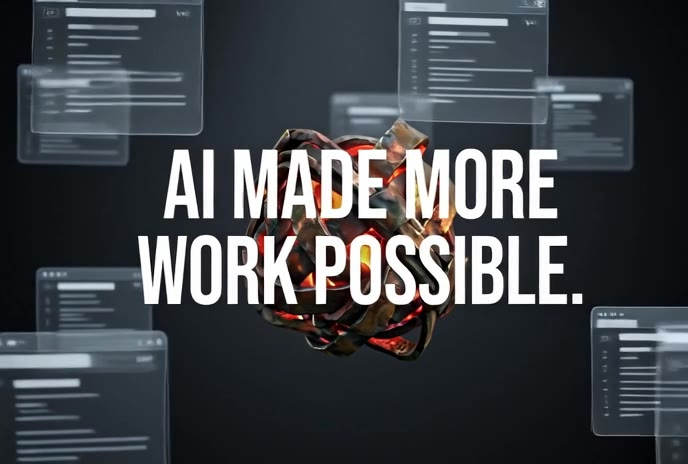
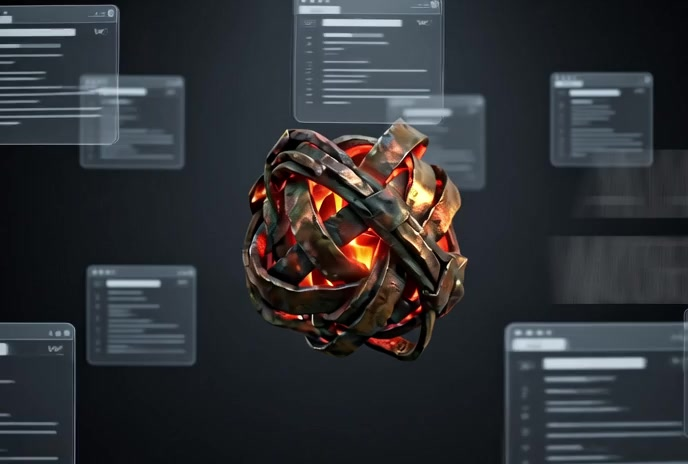
Start the background film on a phone.
A scroll was loading the next film and then dropping the play call, so the poster stayed up.

diff --git a/public/review/proof-momentum/bizbuilders.html b/public/review/proof-momentum/bizbuilders.html
@@ -2,7 +2,7 @@
 <html lang="en"><head><meta charset="utf-8"><meta name="viewport" content="width=device-width,initial-scale=1"><meta name="theme-color" content="#111111"><title>BizBuilders AI · Begin with PROOF</title><link rel="preconnect" href="https://fonts.googleapis.com"><link rel="preconnect" href="https://fonts.gstatic.com" crossorigin><link rel="preconnect" href="https://9s35ujeqbjjbd1bt.public.blob.vercel-storage.com"><link rel="preload" as="image" href="assets/b2b-task-6-world.jpg" fetchpriority="high"><link rel="stylesheet" href="https://fonts.googleapis.com/css2?family=Instrument+Sans:wght@600;700;800&display=swap"><link rel="stylesheet" href="scrollcraft.css"><link rel="stylesheet" href="experience.css?v=films"><link rel="stylesheet" href="arrows.css?v=navd"><link rel="stylesheet" href="benefit-track.css"><meta name="description" content="I trace the work, preserve the context, and give the next action somewhere to go."><link rel="canonical" href="https://transformby10x.ai/bbai"><meta property="og:type" content="website"><meta property="og:title" content="BizBuilders AI | Give the fix somewhere to live"><meta property="og:description" content="I trace the work, preserve the context, and give the next action somewhere to go."><meta property="og:url" content="https://transformby10x.ai/bbai"><meta property="og:image" content="https://transformby10x.ai/assets/b2b-task-6-world.jpg"><meta name="twitter:card" content="summary_large_image"></head><body data-page="business">
 <div class="benefit-track" aria-hidden="true"><p class="benefit-track__line"></p></div>
 <button id="sound-toggle" type="button" aria-pressed="false" aria-label="Sound off"><i></i></button>
-<div id="world" data-scene="b2b-task-6-world.mp4" style="--light:.92" aria-hidden="true"><video id="world-a" class="visible" muted loop playsinline preload="auto" poster="assets/b2b-task-6-world.jpg" src="assets/b2b-task-6-world.mp4" style="opacity:var(--light,.84)"></video><video id="world-b" muted loop playsinline preload="none"></video><div class="world-shade"></div></div>
+<div id="world" data-scene="b2b-task-6-world.mp4" style="--light:.92" aria-hidden="true"><video id="world-a" class="visible" muted autoplay loop playsinline webkit-playsinline preload="auto" poster="assets/b2b-task-6-world.jpg" src="assets/b2b-task-6-world.mp4" style="opacity:var(--light,.84)"></video><video id="world-b" muted autoplay loop playsinline webkit-playsinline preload="none"></video><div class="world-shade"></div></div>
 
 <main id="experience" data-sc-root data-sc-lerp="1"><h1 class="sr">BizBuilders AI. Begin with PROOF.</h1><section id="recognition" data-track="fog" data-sc-act="flow" data-world="b2b-task-6-world.mp4" data-light="1"><div class="bill manifesto-film"><div class="manifesto-cry"><p class="peak">The tools work. That's not the problem.</p><p>Generating at that speed created a job.</p><p>Nobody scheduled it. Nobody staffed it.</p><p>Your people absorbed it.</p><p>They chase, check, and remember.</p><p>The gap got filled by people with good intentions.</p><p class="peak fog-stamp">That's not architecture.</p><p class="peak">That's Digital Fog.</p><p>The drag it creates is Digital Friction.</p><p>You can't fix what you can't see.</p><p>It doesn't show up on a dashboard.</p><p class="closer">Fifteen answers.</p></div></div></section>
 <section id="gate" data-track="gate" data-sc-act="flow" data-world="b2b-task-6-world.mp4" data-light="1"><div class="bill gate"><div class="gate-surface"><div class="gate-ask"><h2 class="gate-release" data-track-headline="gate"><span>It was never</span><span>yours to carry.</span></h2></div><div class="gate-board"><button type="button" class="gate-up" data-choice="up">See where it shows up</button></div></div></div></section><section id="proof" data-track="proof" data-sc-act="flow" data-world="proof-main.mp4" data-light=".92"><div class="bill proof"><div class="proof-name"><h2>PROOF</h2></div><div class="proof-bottom"><button class="action lane-biz" data-start="business" data-sc-magnet="0.1" data-cta="map"><span class="arr" aria-hidden="true"></span></button><button class="text-action method-secondary" data-open="method-dialog" data-cta="method" aria-haspopup="dialog">See the limits <span class="arr" aria-hidden="true"></span></button></div></div></section>
@@ -30,4 +30,4 @@
 <dialog id="about" class="sheet prose" aria-labelledby="about-title"><header><span>Erik / In progress</span><button class="close" data-close aria-label="Close">×</button></header><h2 id="about-title" tabindex="-1">I publish the parts that aren't working yet.</h2><p>TBTX and PROOF, built in the open. The fog I'm still carrying, what held, and what didn't.</p><a class="action" href="/story#notes">My field notes <span class="arr" aria-hidden="true"></span></a></dialog>
 <noscript><p class="noscript">The questions and guided session need JavaScript.</p></noscript>
 <dialog id="philosophy" class="sheet prose" aria-labelledby="philosophy-title"><header><span>BizBuilders AI / How we build</span><button class="close" data-close aria-label="Close">×</button></header><h2 id="philosophy-title" tabindex="-1">Make the work hold together.</h2><p>We start with the work people are already carrying. We trace where the context gets lost, give it a home, and check that the next person can act.</p><div class="keystone-grid"><details><summary><small>01 / Folders</small>A place for it.</summary><p>We give the work a clear home so the next person can find what they need.</p></details><details><summary><small>02 / Markdown</small>Context that stays.</summary><p>We write down the purpose, decisions and instructions in plain text that people and tools can read.</p></details><details><summary><small>03 / Scripts</small>Repeat the useful part.</summary><p>We turn agreed, repeatable steps into scripts and check their outputs.</p></details><details><summary><small>04 / Protocols</small>Know what happens next.</summary><p>We make ownership, permissions, checks and exceptions explicit.</p></details></div><p class="footnote">The Quad Keystones: Folders, Markdown, Scripts, Protocols.</p><button class="text-action" data-open="flow-engine">How we keep it moving <span class="arr" aria-hidden="true"></span></button></dialog>
-<dialog id="flow-engine" class="sheet prose" aria-labelledby="flow-title"><header><span>BizBuilders AI / Inside delivery</span><button class="close" data-close aria-label="Close">×</button></header><h2 id="flow-title" tabindex="-1">Give the work a path to done.</h2><p>I define the job, what it may change, how I’ll check it, and when it needs a person.</p><div class="delivery-path" aria-label="Delivery sequence"><span>Agree the job</span><span>Set permissions</span><span>Run + check</span><span>Keep the record</span></div><details><summary>Inside FLOW Agent AS</summary><p>FLOW Agent AS is the internal execution engine for this approach. I use it to structure AI-assisted work around permissions, checks and recorded results.</p><p>The agreed client scope determines what gets connected. This page explains the approach; it isn’t a demonstration of a connected client runtime.</p></details></dialog><script defer src="media.js"></script><script defer src="scrollcraft.js"></script><script defer src="questions.js"></script><script defer src="question-notes.js"></script><script defer src="experience.js?v=phone"></script><script defer src="method.js?v=g8"></script><script defer src="ddd.js?v=spec"></script><script defer src="benefit-track.js"></script></body></html>
+<dialog id="flow-engine" class="sheet prose" aria-labelledby="flow-title"><header><span>BizBuilders AI / Inside delivery</span><button class="close" data-close aria-label="Close">×</button></header><h2 id="flow-title" tabindex="-1">Give the work a path to done.</h2><p>I define the job, what it may change, how I’ll check it, and when it needs a person.</p><div class="delivery-path" aria-label="Delivery sequence"><span>Agree the job</span><span>Set permissions</span><span>Run + check</span><span>Keep the record</span></div><details><summary>Inside FLOW Agent AS</summary><p>FLOW Agent AS is the internal execution engine for this approach. I use it to structure AI-assisted work around permissions, checks and recorded results.</p><p>The agreed client scope determines what gets connected. This page explains the approach; it isn’t a demonstration of a connected client runtime.</p></details></dialog><script defer src="media.js"></script><script defer src="scrollcraft.js"></script><script defer src="questions.js"></script><script defer src="question-notes.js"></script><script defer src="experience.js?v=play"></script><script defer src="method.js?v=g8"></script><script defer src="ddd.js?v=spec"></script><script defer src="benefit-track.js"></script></body></html>

diff --git a/public/review/proof-momentum/index.html b/public/review/proof-momentum/index.html
@@ -2,7 +2,7 @@
 <html lang="en"><head><meta charset="utf-8"><meta name="viewport" content="width=device-width,initial-scale=1"><meta name="theme-color" content="#111111"><title>TBTX · AI created a job</title><link rel="preconnect" href="https://fonts.googleapis.com"><link rel="preconnect" href="https://fonts.gstatic.com" crossorigin><link rel="preconnect" href="https://9s35ujeqbjjbd1bt.public.blob.vercel-storage.com"><link rel="preload" as="image" href="assets/b2b-task-2-world.jpg" fetchpriority="high"><link rel="stylesheet" href="https://fonts.googleapis.com/css2?family=Instrument+Sans:wght@600;700;800&display=swap"><link rel="stylesheet" href="scrollcraft.css"><link rel="stylesheet" href="experience.css?v=films"><link rel="stylesheet" href="arrows.css?v=navd"><link rel="stylesheet" href="benefit-track.css"><meta name="description" content="Find where work comes back. Choose a next step for my day or my business."><link rel="canonical" href="https://transformby10x.ai/"><meta property="og:type" content="website"><meta property="og:title" content="TBTX | AI created a job"><meta property="og:description" content="Find where work comes back. Choose a next step for my day or my business."><meta property="og:url" content="https://transformby10x.ai/"><meta property="og:image" content="https://www.transformby10x.ai/assets/og.jpg"><meta property="og:image:width" content="1200"><meta property="og:image:height" content="630"><meta name="twitter:card" content="summary_large_image"><meta name="twitter:image" content="https://www.transformby10x.ai/assets/og.jpg"></head><body>
 <div class="benefit-track" aria-hidden="true"><p class="benefit-track__line"></p></div>
 <button id="sound-toggle" type="button" aria-pressed="false" aria-label="Sound off"><i></i></button>
-<div id="world" data-scene="b2b-task-2-world.mp4" style="--light:.78" aria-hidden="true"><video id="world-a" class="visible" muted loop playsinline preload="auto" poster="assets/b2b-task-2-world.jpg" src="assets/b2b-task-2-world.mp4" style="opacity:var(--light,.84)"></video><video id="world-b" muted loop playsinline preload="none"></video><div class="world-shade"></div></div>
+<div id="world" data-scene="b2b-task-2-world.mp4" style="--light:.78" aria-hidden="true"><video id="world-a" class="visible" muted autoplay loop playsinline webkit-playsinline preload="auto" poster="assets/b2b-task-2-world.jpg" src="assets/b2b-task-2-world.mp4" style="opacity:var(--light,.84)"></video><video id="world-b" muted autoplay loop playsinline webkit-playsinline preload="none"></video><div class="world-shade"></div></div>
 
 <main id="experience" data-sc-root data-sc-lerp="1">
 <section id="arrival" data-track="arrival" data-sc-act="flow" data-world="b2b-task-2-world.mp4" data-light=".78" data-crop="78% 62%"><div class="bill arrival"><h1 class="job-lockup"><span class="job-ai">AI</span><span class="job-rest">Created a job</span><span class="punch">(nobody wanted)</span></h1></div></section>
@@ -35,4 +35,4 @@
 <dialog id="about" class="sheet prose" aria-labelledby="about-title"><header><span>Erik / In progress</span><button class="close" data-close aria-label="Close">×</button></header><h2 id="about-title" tabindex="-1">I publish the parts that aren't working yet.</h2><p>TBTX and PROOF, built in the open. The fog I'm still carrying, what held, and what didn't.</p><a class="action" href="/story#notes">My field notes <span class="arr" aria-hidden="true"></span></a></dialog>
 <noscript><p class="noscript">The questions and guided session need JavaScript.</p></noscript>
 <dialog id="philosophy" class="sheet prose" aria-labelledby="philosophy-title"><header><span>BizBuilders AI / How we build</span><button class="close" data-close aria-label="Close">×</button></header><h2 id="philosophy-title" tabindex="-1">Make the work hold together.</h2><p>We start with the work people are already carrying. We trace where the context gets lost, give it a home, and check that the next person can act.</p><div class="keystone-grid"><details><summary><small>01 / Folders</small>A place for it.</summary><p>We give the work a clear home so the next person can find what they need.</p></details><details><summary><small>02 / Markdown</small>Context that stays.</summary><p>We write down the purpose, decisions and instructions in plain text that people and tools can read.</p></details><details><summary><small>03 / Scripts</small>Repeat the useful part.</summary><p>We turn agreed, repeatable steps into scripts and check their outputs.</p></details><details><summary><small>04 / Protocols</small>Know what happens next.</summary><p>We make ownership, permissions, checks and exceptions explicit.</p></details></div><p class="footnote">The Quad Keystones: Folders, Markdown, Scripts, Protocols.</p><button class="text-action" data-open="flow-engine">How we keep it moving <span class="arr" aria-hidden="true"></span></button></dialog>
-<dialog id="flow-engine" class="sheet prose" aria-labelledby="flow-title"><header><span>BizBuilders AI / Inside delivery</span><button class="close" data-close aria-label="Close">×</button></header><h2 id="flow-title" tabindex="-1">Give the work a path to done.</h2><p>I define the job, what it may change, how I’ll check it, and when it needs a person.</p><div class="delivery-path" aria-label="Delivery sequence"><span>Agree the job</span><span>Set permissions</span><span>Run + check</span><span>Keep the record</span></div><details><summary>Inside FLOW Agent AS</summary><p>FLOW Agent AS is the internal execution engine for this approach. I use it to structure AI-assisted work around permissions, checks and recorded results.</p><p>The agreed client scope determines what gets connected. This page explains the approach; it isn’t a demonstration of a connected client runtime.</p></details></dialog><script defer src="media.js"></script><script defer src="scrollcraft.js"></script><script defer src="questions.js"></script><script defer src="question-notes.js"></script><script defer src="experience.js?v=phone"></script><script defer src="method.js?v=g8"></script><script defer src="ddd.js?v=spec"></script><script defer src="benefit-track.js"></script></body></html>
+<dialog id="flow-engine" class="sheet prose" aria-labelledby="flow-title"><header><span>BizBuilders AI / Inside delivery</span><button class="close" data-close aria-label="Close">×</button></header><h2 id="flow-title" tabindex="-1">Give the work a path to done.</h2><p>I define the job, what it may change, how I’ll check it, and when it needs a person.</p><div class="delivery-path" aria-label="Delivery sequence"><span>Agree the job</span><span>Set permissions</span><span>Run + check</span><span>Keep the record</span></div><details><summary>Inside FLOW Agent AS</summary><p>FLOW Agent AS is the internal execution engine for this approach. I use it to structure AI-assisted work around permissions, checks and recorded results.</p><p>The agreed client scope determines what gets connected. This page explains the approach; it isn’t a demonstration of a connected client runtime.</p></details></dialog><script defer src="media.js"></script><script defer src="scrollcraft.js"></script><script defer src="questions.js"></script><script defer src="question-notes.js"></script><script defer src="experience.js?v=play"></script><script defer src="method.js?v=g8"></script><script defer src="ddd.js?v=spec"></script><script defer src="benefit-track.js"></script></body></html>

diff --git a/public/review/proof-momentum/experience.js b/public/review/proof-momentum/experience.js
@@ -146,7 +146,7 @@ function changeWorld(name,light=.8,crop){
   videos.forEach(v=>{if(v!==holding)hide(v);});
   show(holding);
   holding.muted=true;
-  if(!reduced&&!document.hidden)holding.play().catch(()=>{});
+  ensurePlay(holding);
   syncBed(name);
   return;
  }
@@ -169,10 +169,10 @@ function changeWorld(name,light=.8,crop){
   syncBed(name);
   if(outgoing&&outgoing!==next) setTimeout(()=>{if(outgoing.dataset.file!==wanted){outgoing.pause();outgoing.removeAttribute('src');outgoing.removeAttribute('poster');delete outgoing.dataset.file;outgoing.load();}},900);
  };
- next.addEventListener('canplay',()=>{reveal();if(!reduced&&!document.hidden)next.play().catch(()=>{});},{once:true});
+ next.addEventListener('loadeddata',()=>{reveal();ensurePlay(next);},{once:true});
+ next.addEventListener('canplay',()=>{reveal();ensurePlay(next);},{once:true});
  next.addEventListener('error',reveal,{once:true});
- reveal();
- if(!reduced&&!document.hidden) next.play().catch(()=>{});
+ ensurePlay(next);
 }
 const acts=$$('[data-world]');let framePending=false;
 function syncChrome(best){
@@ -443,10 +443,9 @@ document.addEventListener('click',e=>{
 const galleryItems=[['The handoff','proof-mood-3.mp4','Where the context actually drops.'],['How PROOF finds the fog','proof-mood-2.mp4','The leftover job, on film.'],['PROOF / First cut','proof-mood-1.mp4','Before the method had a name.'],['Checking the code','b2b-task-1.mp4','Auditing code nobody on staff wrote.'],['Content strategy','b2b-task-2.mp4','Holding the story still.'],['Conflicting outputs','b2b-task-3.mp4','What two AI agents disagreeing looks like.'],['Choosing a logo','b2b-task-4.mp4','Picking a logo without a design team.'],['The final summary','b2b-task-5.mp4','What the work actually said.'],['Keeping strategy in view','b2b-task-6.mp4','The plan that has to stay in the room.'],['The Map','b2b-task-6-world.mp4','Where the work comes back.'],['Digital De-Fog Daily','defog-daily-hero.mp4','The fog leaves. Twenty minutes.'],['The concept artwork',null,'Some labels predate Finder.'],['The origin lockup','ai-created-a-job.mp4','AI created a job. Nobody wanted it.'],['Desk fog','desk-fog-loop.mp4','The leftover job, looping.'],['Fog to architecture','proof-to-architecture.mp4','From fog to architecture.'],['Hidden repair','hidden-repair-load.mp4','The repair load nobody named.'],['BBAI momentum','bbai-momentum-loop.mp4','Where the fix lives.'],['Fog Lift Kit','fog-lift-kit.mp4','A kit that lifts the fog.'],['Computer explodes','computer-explodes.mp4','What happens when the glue snaps.'],['Digital Fog satire','satire-digital-fog.mp4','The fog, with the joke left in.']];
 $('#gallery-nav') && ($('#gallery-nav').innerHTML=galleryItems.map((a,i)=>`<button data-gallery="${i}">${a[0]}</button>`).join(''));function chooseGallery(i){const item=galleryItems[i],v=$('#gallery-film');if(!v)return;v.pause();$$('[data-gallery]').forEach(b=>b.setAttribute('aria-pressed',String(Number(b.dataset.gallery)===i)));v.hidden=!item[1];const art=$('#gallery-art');if(art)art.hidden=!!item[1];if(item[1])v.src=media(item[1]);else v.removeAttribute('src');const cap=$('#gallery-caption');if(cap)cap.textContent=item[2];}
 $$('[data-gallery]').forEach(b=>b.onclick=()=>chooseGallery(Number(b.dataset.gallery)));$('#gallery-film').addEventListener('play',()=>videos.forEach(v=>v.pause()));$('#gallery-film').addEventListener('pause',()=>{if($('#gallery').open&&!document.hidden&&!reduced)liveWorld()?.play().catch(()=>{});});
-document.addEventListener('visibilitychange',()=>{if(document.hidden)$$('video').forEach(v=>v.pause());else if(!reduced){if($('#world').dataset.scene!=='off'&&!($('#gallery').open&&!$('#gallery-film').paused))liveWorld()?.play().catch(()=>{});$$('.fog-stack video,.route-lane video').forEach(v=>v.play().catch(()=>{}));syncBed(wanted||activeScene?.dataset.world);}});
-if(reduced)$$('.fog-stack video,.route-lane video').forEach(v=>{v.pause();v.removeAttribute('autoplay');});
+document.addEventListener('visibilitychange',()=>{if(document.hidden)$$('video').forEach(v=>v.pause());else if($('#world').dataset.scene!=='off'&&!($('#gallery').open&&!$('#gallery-film').paused)){ensurePlay(liveWorld());$$('.fog-stack video,.route-lane video').forEach(ensurePlay);syncBed(wanted||activeScene?.dataset.world);}});
 $$('.route-lane video[data-film]').forEach(v=>{
- const arm=()=>{if(v.dataset.armed)return;v.dataset.armed='1';v.src=media(v.dataset.film);if(!reduced)v.play().catch(()=>{});};
+ const arm=()=>{if(v.dataset.armed)return;v.dataset.armed='1';v.muted=true;v.setAttribute('muted','');v.setAttribute('playsinline','');v.src=media(v.dataset.film);ensurePlay(v);};
  if('IntersectionObserver' in window){
   const io=new IntersectionObserver(ents=>{if(ents.some(en=>en.isIntersecting)){arm();io.disconnect();}},{rootMargin:'240px'});
   io.observe(v);
@@ -455,8 +454,18 @@ $$('.route-lane video[data-film]').forEach(v=>{
 applySound();
 $('#sound-toggle')?.addEventListener('click',e=>{e.stopPropagation();setSound(!soundOn);});
 let tapX=0,tapY=0;
-function playMuted(v){if(!v||reduced)return;v.defaultMuted=true;v.muted=true;v.setAttribute('muted','');v.playsInline=true;v.setAttribute('playsinline','');v.setAttribute('webkit-playsinline','');if(v.src&&!document.hidden)v.play().catch(()=>{});}
-document.addEventListener('pointerdown',e=>{tapX=e.clientX;tapY=e.clientY;playMuted(liveWorld());},{passive:true});
+document.addEventListener('pointerdown',e=>{tapX=e.clientX;tapY=e.clientY;},{passive:true});
+function ensurePlay(v){
+  if(!v)return;
+  v.defaultMuted=true;v.muted=true;v.autoplay=true;v.loop=true;v.playsInline=true;
+  v.setAttribute('muted','');v.setAttribute('autoplay','');v.setAttribute('playsinline','');v.setAttribute('webkit-playsinline','');
+  if(!v.src||document.hidden)return;
+  const go=()=>{if(document.hidden||!v.src)return;const p=v.play();if(p&&p.catch)p.catch(()=>{});};
+  go();
+  if(v.readyState<2){v.addEventListener('loadeddata',go,{once:true});v.addEventListener('canplay',go,{once:true});}
+}
+function unlockFilms(){videos.forEach(ensurePlay);$$('.route-lane video,.fog-stack video').forEach(ensurePlay);}
+['touchstart','pointerdown','click'].forEach(type=>document.addEventListener(type,unlockFilms,{capture:true,passive:true}));
 document.addEventListener('pointerup',e=>{
  if(e.pointerType==='touch')return;
  if(document.body.classList.contains('is-sheet'))return;
